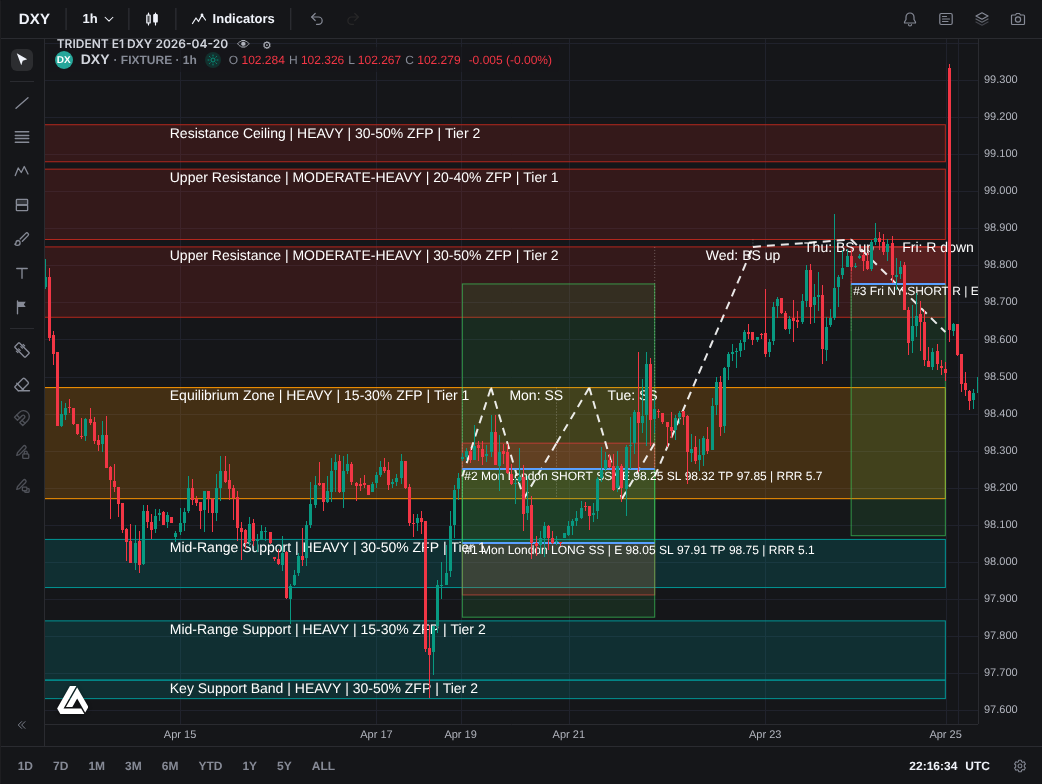
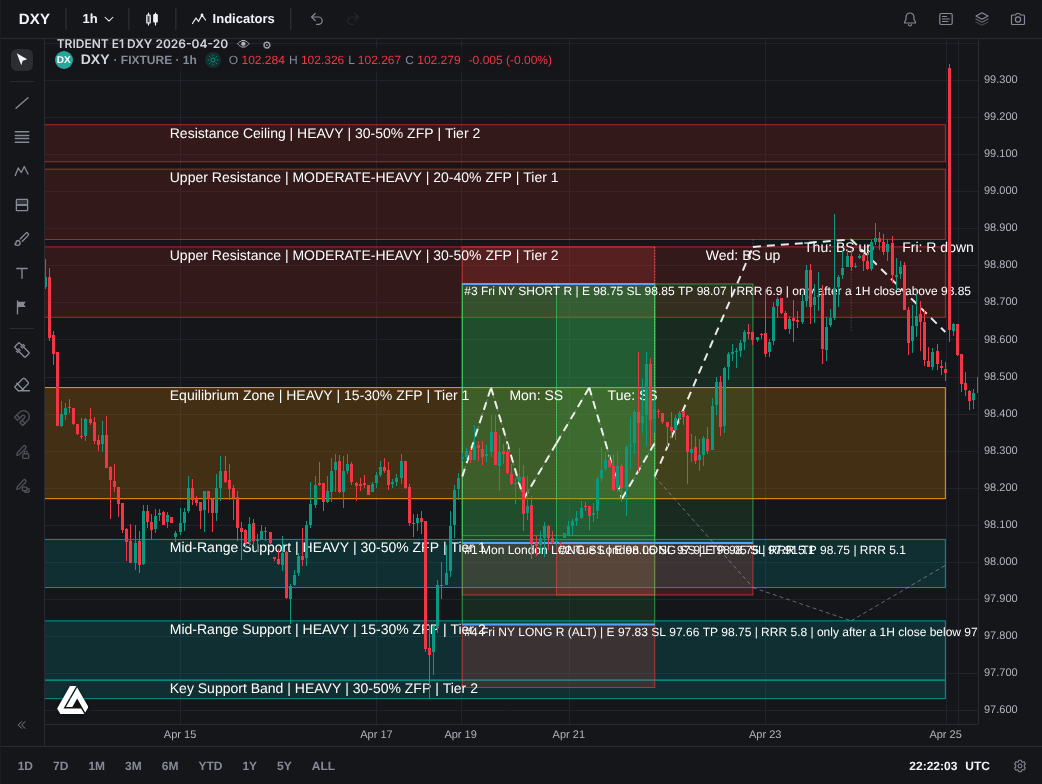
E3: no ALT range duplicates, chain-designated reversals exempt from trend consensus, retest entry removed
Claude-Session: https://claude.ai/code/session_01Eis2qBbofvMAifYJzweUMT

Changed region(s): [[0.4299, 0.3061, 0.952, 0.8878], [0.8906, 0.949, 0.9213, 0.9796]]

diff --git a/e1_tool/e3_setups.py b/e1_tool/e3_setups.py
@@ -28,7 +28,7 @@ def build(pair, monday, r):
     zs = sorted(r['zones'], key=lambda z: z['bot'])
     out, used = [], set()
 
-    def candidate(day, z, direction, category, shape):
+    def candidate(day, z, direction, category, shape, designated=False):
         if (direction == 'LONG') != (side(z) == 'Demand'):
             return None                                 # never anchor LONGs at supply / SHORTs at demand (8.1)
         if any(s['mit'] > 2 for s in z['structs']):
@@ -48,11 +48,11 @@ def build(pair, monday, r):
         cd = next((d['dir'] for d in day.get('_chain', e2['days']) if d['shape'] in ('BS', 'PBS')), None)
         if cd:
             checks.append((cd == 'up') == want_up)
-        if sum(1 for c in checks if not c) > len(checks) / 2:
+        if not designated and sum(1 for c in checks if not c) > len(checks) / 2:
             return None                                 # consensus against the direction -> reject
         # MoM zones are ladder steps for trend-aligned trades only; never a reversal entry against the 4H storyline (Trading Laws via P533 change 2)
         is_bom = any(q.get('h4bom') for q in z['structs'])
-        if z['structs'] and not is_bom and not checks[0]:
+        if not designated and z['structs'] and not is_bom and not checks[0]:
             return None
         ref = day['path'][0][1]
         lo, hi = anchor_band(z, direction, ref)
@@ -125,6 +125,8 @@ def build(pair, monday, r):
         sup = [z for z in above if side(z) == 'Supply']
         dem = [z for z in below if side(z) == 'Demand']
         sh, dr = day['shape'], day['dir']
+        if branch == 'ALT' and (sh in ('SS', 'WLS') or (sh == 'R' and dr == 'range')):
+            continue                                    # range scalps belong to the range, not to a branch: mapped once (primary days)
         if sh in ('SS', 'WLS') or (sh == 'R' and dr == 'range'):
             # Consolidation: swing scalps both directions at the range boundaries
             for z, d in ((dem[0] if dem else None, 'LONG'), (sup[0] if sup else None, 'SHORT')):
@@ -134,9 +136,7 @@ def build(pair, monday, r):
         elif sh in ('BS', 'PBS'):
             chain_days = e2['days'] if branch == 'PRIMARY' else e2['alt_days']
             first_bs = next(d for d in chain_days if d['shape'] in ('BS', 'PBS'))
-            if day is first_bs and day['key'] is not None:
-                c = retest(day, day['key'], 'LONG' if dr == 'up' else 'SHORT', chain_days)
-                if c: out.append(c)
+            pass        # with-the-move entries = 8R reinforcement stop-limits (not built yet); the retest-of-broken-zone entry was measured 0 TP / 9 SL and removed
         elif sh in ('WL', 'RWL', 'R'):
             # Reversal at the zone that rejects: after an up move the short anchors at the supply reached; after a down move the long at the demand reached
             tgt = day['path'][1][1] if sh == 'WL' else day['path'][0][1]
@@ -147,7 +147,7 @@ def build(pair, monday, r):
                 zz = [z for z in zs if side(z) == 'Demand' and z['bot'] <= tgt + 5 * pip][::-1]
                 d = 'LONG'
             if zz:
-                c = candidate(day, zz[0], d, 'Reversal', sh)
+                c = candidate(day, zz[0], d, 'Reversal', sh, designated=True)      # E2 designates the reversal at this zone, E3 obeys (R3 law)
                 if c:
                     chain_days = e2['days'] if branch == 'PRIMARY' else e2['alt_days']
                     fb = next((x for x in chain_days if x['shape'] in ('BS', 'PBS') and x['key'] is not None), None)
